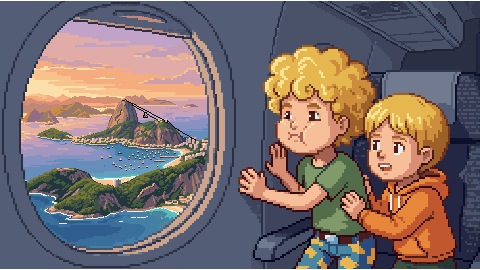
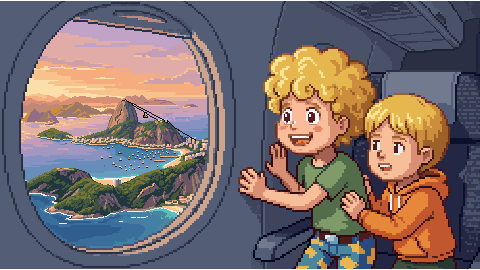
Jackfrucht sieht endlich nach Jackfrucht aus, Jonas freut sich im Flugzeug
- frucht.png neu (pixen 07973072…): rund, grün, knubbelig, 16×18
  Beim Palettisieren mussten die Brauntöne ausgeschlossen werden,
  sonst wurde die Frucht braun statt grün.
- tijuca_intro_flug.png: Jonas guckte, als würde ihm schlecht.
  edit_image hat ein fröhliches Bild geliefert, aber auch das schöne
  Fenster überschrieben – deshalb nur sein Gesicht per weicher
  Ellipsen-Blende ins Originalbild kopiert (tools/gesicht-tauschen.mjs).

Claude-Session: https://claude.ai/code/session_015V1NJyATdJKNAqRRoQ2KE5

Changed region(s): [[0.5625, 0.3556, 0.6875, 0.563]]

diff --git a/public/assets/QUELLEN.md b/public/assets/QUELLEN.md
@@ -45,11 +45,11 @@ dann `node tools/palettize.mjs …` (nur Palettenfarben; bei Kacheln die Rottön
 - Kacheln: `create_sidescroller_tileset` Lehmboden `c35edd34…` → tiles/tijuca.png, Aquädukt-Quader `db7bb68f…` → tiles/tijuca_stein.png
 - Hintergrund: Berge/Zuckerhut `156c065e…` (erster Versuch `70402aa9…` sah nach Schwarzwald aus), Bäume `fc80e03f…` (Versuch `19c6e885…` hatte Wasserzeichen; hellblau per colorkey freigestellt), Farne `1e0bd52a…`, Kronen `82362121…`
 - Kulissen: Cascatinha `53e9775d…`, Vista Chinesa `a4858ee5…`, Cristo Redentor `ceffa730…`
-- Gegner: Affe `722b9a21…` (+ beruhigt `b3dec16c…`), Nasenbär `8d2502b2…` (+ Lauf `f7b71e9e…`), Faultier `cf441662…` (+ schlafend `09083a31…`), Ameise `12dcce15…` (+ Lauf `5e30cb70…`), Jackfrucht `61cd7fe8…`
+- Gegner: Affe `722b9a21…` (+ beruhigt `b3dec16c…`), Nasenbär `8d2502b2…` (+ Lauf `f7b71e9e…`), Faultier `cf441662…` (+ schlafend `09083a31…`), Ameise `12dcce15…` (+ Lauf `5e30cb70…`), Jackfrucht `61cd7fe8…` → ersetzt durch pixen `07973072…` (grün, knubbelig, 16×18)
 - Deko: Bromelie `22653618…`, Bambus `095f2e62…`, Liane `60db5b2e…`, Monstera `516084f6…`
 - Nachbesserung: Nasenbär `e6ec27a6…` und Kapuzineraffe `64e3b8e5…` neu (die ersten sahen nicht nach den Tieren aus);
   Animationen dazu: Nasenbär-Lauf `af1e73b3…`, Affe beruhigt `78ac5772…`, Affe wirft `ab097341…`;
-  Tijuca-Intro: Flug `1fa2d8b4…`, Waldrand `37a215c6…`; Jonas klettert (Rückansicht) `64f53502…`
+  Tijuca-Intro: Flug `1fa2d8b4…` (Jonas' Gesicht nachträglich froh gemacht: `edit_image` `2372e8dc…`, nur das Gesicht per Ellipsen-Blende ins Original kopiert), Waldrand `37a215c6…`; Jonas klettert (Rückansicht) `64f53502…`
 - Nachbesserung 2: böser Hase `388ff465…` (img2img aus dem freundlichen Hasen, strength 110) + Hüpfen `34893bc5…`;
   kleinerer Kapuzineraffe `829cc473…` (32×32 statt 44×48) + Wurf `beeeaf04…` + beruhigt `975ef13d…`;
   Nasenbär-Bilder mit `tools/spiegeln.mjs` nach links gedreht (er war als einziger nach rechts gezeichnet);
